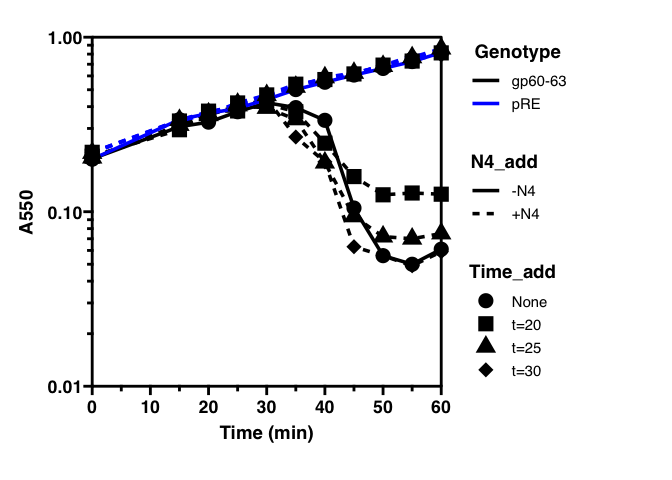
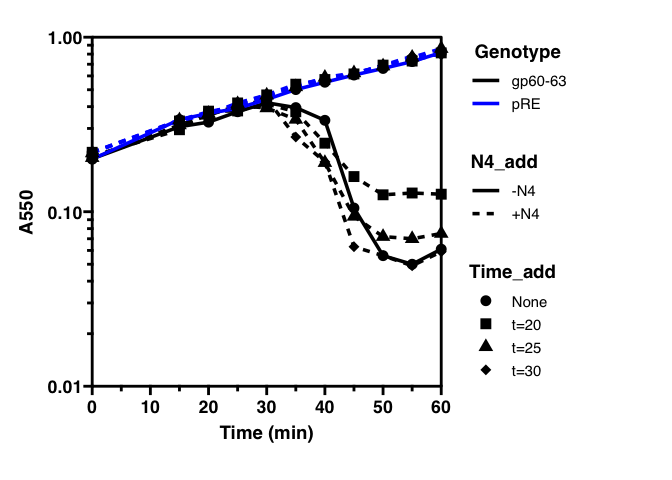
Added svg file export and changed bullet sizes

diff --git a/README.md b/README.md
@@ -187,7 +187,7 @@ Here is how I plot my graphs using my customizations:
 
 ``` r
 # define custom offset to move line labels away from axis
-offset <- max(data_long$Time)*0.05
+offset <- max(data_long$Time)*0.035
 
 # ggprism has default colors to use, but I want to reorder them
 cols = ggprism_data$colour_palettes$colors[c(6,1:5,7:20)]
@@ -208,7 +208,7 @@ simpleplot <- function(data_long) {
   g <- data_long %>% 
       ggplot(aes(x=Time, y=OD)) +
       geom_line(aes(color=Sample), size=1.25) +
-      geom_point(aes(shape=Sample), color="black", size=5) +
+      geom_point(aes(shape=Sample), color="black", size=3.5) +
       geom_text_repel(data=subset(data_long, Time == max(data_long$Time)), # labels next to lines
                       aes(label=Sample, 
                           color=Sample, 
@@ -363,7 +363,7 @@ complexplot <- function(data_long, variables) {
                       shape=variables[3]
                       )) +
     geom_line(size=1.25) +
-    geom_point(color="black", fill="black", size=5) +
+    geom_point(color="black", fill="black", size=3.5) +
     scale_shape_prism(palette = "complete") + # change prism bullet shape palette
     scale_color_manual(values=cols) +
     scale_y_log10(limit=c(0.01,max_yax), # put y on log10 scale
@@ -514,7 +514,7 @@ wideToLong <- function(data, variables=c()) {
 data_long <- wideToLong(data=data, var)
 
 # define custom offset to move line labels away from axis
-offset <- max(data_long$Time)*0.05
+offset <- max(data_long$Time)*0.035
 
 # ggprism has default colors to use, but I want to reorder them
 cols = ggprism_data$colour_palettes$colors[c(6,1:5,7:20)]
@@ -532,7 +532,7 @@ simpleplot <- function(data_long) {
   g <- data_long %>% 
       ggplot(aes(x=Time, y=OD)) +
       geom_line(aes(color=Sample), size=1.25) +
-      geom_point(aes(shape=Sample), fill="black", size=2.5) +
+      geom_point(aes(shape=Sample), fill="black", size=3.5) +
       geom_text_repel(data=subset(data_long, Time == max(data_long$Time)), # labels next to lines
                       aes(label=Sample, 
                           color=Sample, 
@@ -579,7 +579,7 @@ complexplot <- function(data_long, variables) {
                       shape=variables[3]
                       )) +
     geom_line(size=1.25) +
-    geom_point(color="black", fill="black", size=5) +
+    geom_point(color="black", fill="black", size=3.5) +
     scale_shape_prism(palette = "complete") + # change prism bullet shape palette
     scale_color_manual(values=cols) +
     scale_y_log10(limit=c(0.01,max_yax), # put y on log10 scale
@@ -611,6 +611,15 @@ if (ncol(data_long) == 3) {
 } else {
   complexplot(data_long=data_long, variables=var)
 }
-invisible(dev.off())
-print(paste0("Saved: ", save))
+dev.off()
+
+## or if you want to save as a svg file for making full figures in inkscape
+save = paste0(strsplit(basename(file), ".csv")[[1]], ".svg")
+svg(save, width=7.5, height=7.5)
+if (ncol(data_long) == 3) {
+  simpleplot(data_long=data_long)
+} else {
+  complexplot(data_long=data_long, variables=var)
+}
+dev.off()
 ```
